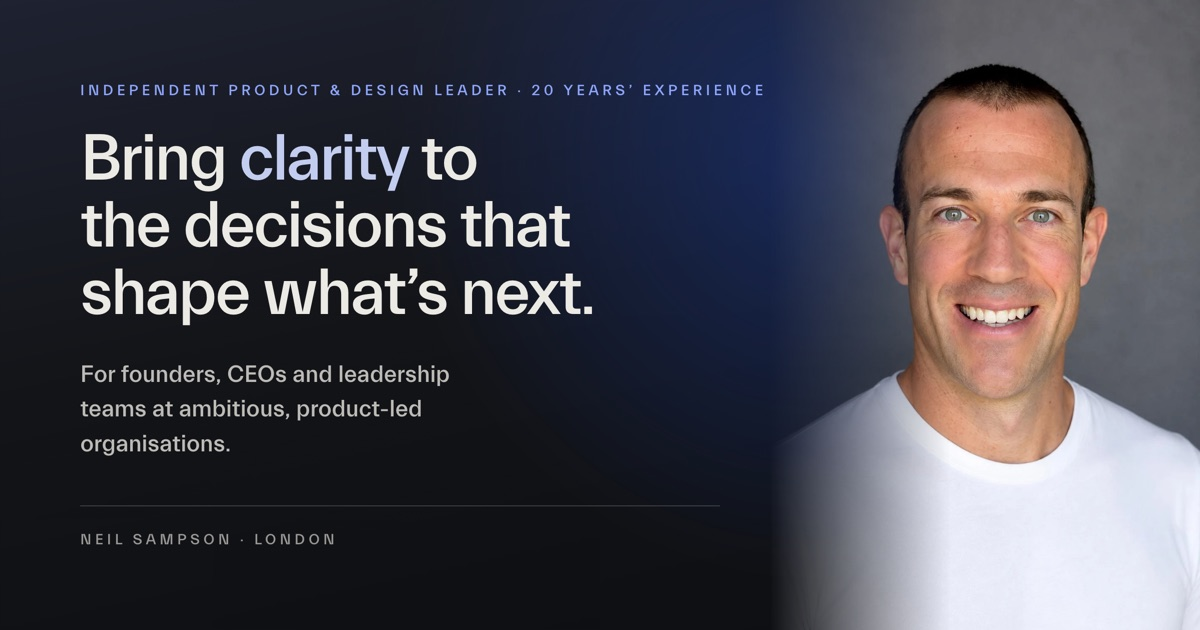
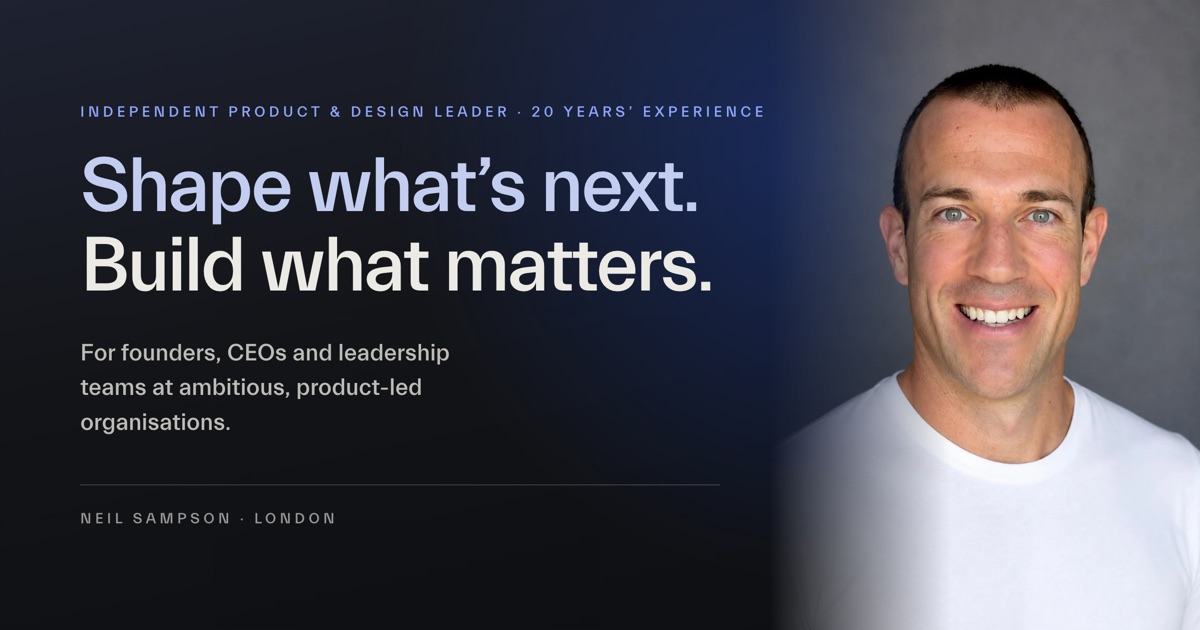
Bring the share card and previews in line with the new headline
The share card, meta descriptions, JSON-LD and image alt text still said
"Bring clarity to the decisions that shape what's next." They now carry
"Shape what's next. Build what matters."

The card is redrawn with the two-line headline at 78px and published as
share-card-shape.jpg, since previews cache by URL; the three older filenames
serve the same new picture.

diff --git a/index.html b/index.html
@@ -13,30 +13,30 @@
 </script>
 <meta name="viewport" content="width=device-width, initial-scale=1">
 <title>Independent product &amp; design leader | Neil Sampson</title>
-<meta name="description" content="Independent product &amp; design leader with 20 years&#8217; experience, helping founders, CEOs and leadership teams bring clarity to the decisions that shape what&#8217;s next.">
+<meta name="description" content="Independent product &amp; design leader with 20 years&#8217; experience, helping founders, CEOs and leadership teams shape what&#8217;s next and build what matters.">
 <link rel="canonical" href="https://neil-sampson.com/">
 
 <meta property="og:type" content="website">
 <meta property="og:site_name" content="Neil Sampson">
 <meta property="og:locale" content="en_GB">
 <meta property="og:title" content="Independent product &amp; design leader | Neil Sampson">
-<meta property="og:description" content="Bring clarity to the decisions that shape what&#8217;s next. Independent product and design leadership for founders, CEOs and leadership teams.">
+<meta property="og:description" content="Shape what&#8217;s next. Build what matters. Independent product and design leadership for founders, CEOs and leadership teams.">
 <meta property="og:url" content="https://neil-sampson.com/">
 <meta name="twitter:card" content="summary_large_image">
 <meta name="twitter:title" content="Independent product &amp; design leader | Neil Sampson">
-<meta name="twitter:description" content="Bring clarity to the decisions that shape what&#8217;s next. Independent product and design leadership for founders, CEOs and leadership teams.">
-<meta property="og:image" content="https://neil-sampson.com/assets/share-card-clarity.jpg">
+<meta name="twitter:description" content="Shape what&#8217;s next. Build what matters. Independent product and design leadership for founders, CEOs and leadership teams.">
+<meta property="og:image" content="https://neil-sampson.com/assets/share-card-shape.jpg">
 <meta property="og:image:width" content="1200">
 <meta property="og:image:height" content="630">
-<meta property="og:image:alt" content="Neil Sampson, independent product and design leader: bring clarity to the decisions that shape what&#8217;s next">
-<meta name="twitter:image" content="https://neil-sampson.com/assets/share-card-clarity.jpg">
+<meta property="og:image:alt" content="Neil Sampson, independent product and design leader: shape what&#8217;s next, build what matters">
+<meta name="twitter:image" content="https://neil-sampson.com/assets/share-card-shape.jpg">
 
 <script type="application/ld+json">
 {
   "@context": "https://schema.org",
   "@type": "ProfessionalService",
   "name": "Neil Sampson",
-  "description": "Bring clarity to the decisions that shape what’s next. Independent product and design leadership for founders, CEOs and leadership teams.",
+  "description": "Shape what’s next. Build what matters. Independent product and design leadership for founders, CEOs and leadership teams.",
   "url": "https://neil-sampson.com/",
   "areaServed": "GB",
   "provider": {

diff --git a/tools/share-card.html b/tools/share-card.html
@@ -2,24 +2,24 @@
 <meta charset="utf-8">
 <title>Share card</title>
 <!--
-  Source for assets/share-card-clarity.jpg, the Open Graph image.
+  Source for assets/share-card-shape.jpg, the Open Graph image.
 
   It mirrors the homepage hero: the same 168deg ground gradient, the same blue
-  glow, Everett from /fonts, and the headline with "clarity" in --blue-pale.
-  Edit here, never the JPEG, and regenerate from the repo root:
+  glow, Everett from /fonts, and the headline with its first sentence in
+  --blue-pale. Edit here, never the JPEG, and regenerate from the repo root:
 
     "/Applications/Google Chrome.app/Contents/MacOS/Google Chrome" \
       --headless --disable-gpu --hide-scrollbars --force-device-scale-factor=2 \
       --window-size=1200,630 --screenshot=/tmp/card-2x.png \
       "file://$PWD/tools/share-card.html"
     sips -z 630 1200 /tmp/card-2x.png --setProperty format jpeg \
-      --setProperty formatOptions 82 --out assets/share-card-clarity.jpg
+      --setProperty formatOptions 82 --out assets/share-card-shape.jpg
 
   Rendering at 2x and halving keeps the type crisp. Copy the result over
-  assets/share-card.jpg and assets/share-card-2026.jpg too: previews cache by
-  URL, so the old names have to keep serving the current picture. When the
-  design changes materially, give it a new filename and repoint
-  og:image/twitter:image, or caches will hold the old one.
+  assets/share-card.jpg, share-card-2026.jpg and share-card-clarity.jpg too:
+  previews cache by URL, so the old names have to keep serving the current
+  picture. When the design changes materially, give it a new filename and
+  repoint og:image/twitter:image, or caches will hold the old one.
 -->
 <style>
   @font-face {
@@ -110,7 +110,7 @@
   }
 
   h1 {
-    font-size: 66px;
+    font-size: 78px;
     font-weight: 500;
     line-height: 1.02;
     letter-spacing: -.03em;
@@ -154,7 +154,7 @@
 
 <div class="inner">
   <span class="eyebrow">Independent product &amp; design leader &#183; 20 years&#8217; experience</span>
-  <h1>Bring <em>clarity</em> to<br>the decisions that<br>shape what&#8217;s next.</h1>
+  <h1><em>Shape what&#8217;s next.</em><br>Build what matters.</h1>
   <p class="lead">For founders, CEOs and leadership teams at ambitious, product-led organisations.</p>
   <div class="rule"></div>
   <div class="colophon">Neil Sampson &#183; London</div>

diff --git a/case-fca.html b/case-fca.html
@@ -25,11 +25,11 @@
 <meta name="twitter:card" content="summary_large_image">
 <meta name="twitter:title" content="FCA &#8212; building an in-house design practice">
 <meta name="twitter:description" content="An in-house design practice and product operating model at the UK financial regulator.">
-<meta property="og:image" content="https://neil-sampson.com/assets/share-card-clarity.jpg">
+<meta property="og:image" content="https://neil-sampson.com/assets/share-card-shape.jpg">
 <meta property="og:image:width" content="1200">
 <meta property="og:image:height" content="630">
-<meta property="og:image:alt" content="Neil Sampson, independent product and design leader: bring clarity to the decisions that shape what&#8217;s next">
-<meta name="twitter:image" content="https://neil-sampson.com/assets/share-card-clarity.jpg">
+<meta property="og:image:alt" content="Neil Sampson, independent product and design leader: shape what&#8217;s next, build what matters">
+<meta name="twitter:image" content="https://neil-sampson.com/assets/share-card-shape.jpg">
 
 <link rel="icon" type="image/png" sizes="32x32" href="assets/favicon-32.png">
 <link rel="icon" type="image/png" sizes="16x16" href="assets/favicon-16.png">

diff --git a/services.html b/services.html
@@ -25,11 +25,11 @@
 <meta name="twitter:card" content="summary_large_image">
 <meta name="twitter:title" content="Fractional design &amp; product services | Neil Sampson">
 <meta name="twitter:description" content="Product strategy, design leadership, service design and capability building.">
-<meta property="og:image" content="https://neil-sampson.com/assets/share-card-clarity.jpg">
+<meta property="og:image" content="https://neil-sampson.com/assets/share-card-shape.jpg">
 <meta property="og:image:width" content="1200">
 <meta property="og:image:height" content="630">
-<meta property="og:image:alt" content="Neil Sampson, independent product and design leader: bring clarity to the decisions that shape what&#8217;s next">
-<meta name="twitter:image" content="https://neil-sampson.com/assets/share-card-clarity.jpg">
+<meta property="og:image:alt" content="Neil Sampson, independent product and design leader: shape what&#8217;s next, build what matters">
+<meta name="twitter:image" content="https://neil-sampson.com/assets/share-card-shape.jpg">
 
 <link rel="icon" type="image/png" sizes="32x32" href="assets/favicon-32.png">
 <link rel="icon" type="image/png" sizes="16x16" href="assets/favicon-16.png">

diff --git a/case-lindblad.html b/case-lindblad.html
@@ -25,11 +25,11 @@
 <meta name="twitter:card" content="summary_large_image">
 <meta name="twitter:title" content="Lindblad &#8212; a $10k+ product made self-serve">
 <meta name="twitter:description" content="A $10k+ expedition cruise booking turned into a self-serve digital experience.">
-<meta property="og:image" content="https://neil-sampson.com/assets/share-card-clarity.jpg">
+<meta property="og:image" content="https://neil-sampson.com/assets/share-card-shape.jpg">
 <meta property="og:image:width" content="1200">
 <meta property="og:image:height" content="630">
-<meta property="og:image:alt" content="Neil Sampson, independent product and design leader: bring clarity to the decisions that shape what&#8217;s next">
-<meta name="twitter:image" content="https://neil-sampson.com/assets/share-card-clarity.jpg">
+<meta property="og:image:alt" content="Neil Sampson, independent product and design leader: shape what&#8217;s next, build what matters">
+<meta name="twitter:image" content="https://neil-sampson.com/assets/share-card-shape.jpg">
 
 <link rel="icon" type="image/png" sizes="32x32" href="assets/favicon-32.png">
 <link rel="icon" type="image/png" sizes="16x16" href="assets/favicon-16.png">

diff --git a/case-bpp.html b/case-bpp.html
@@ -25,11 +25,11 @@
 <meta name="twitter:card" content="summary_large_image">
 <meta name="twitter:title" content="BPP &#8212; onboarding lead time cut from 6 weeks to 3">
 <meta name="twitter:description" content="Apprentice onboarding lead time cut from six weeks to three.">
-<meta property="og:image" content="https://neil-sampson.com/assets/share-card-clarity.jpg">
+<meta property="og:image" content="https://neil-sampson.com/assets/share-card-shape.jpg">
 <meta property="og:image:width" content="1200">
 <meta property="og:image:height" content="630">
-<meta property="og:image:alt" content="Neil Sampson, independent product and design leader: bring clarity to the decisions that shape what&#8217;s next">
-<meta name="twitter:image" content="https://neil-sampson.com/assets/share-card-clarity.jpg">
+<meta property="og:image:alt" content="Neil Sampson, independent product and design leader: shape what&#8217;s next, build what matters">
+<meta name="twitter:image" content="https://neil-sampson.com/assets/share-card-shape.jpg">
 
 <link rel="icon" type="image/png" sizes="32x32" href="assets/favicon-32.png">
 <link rel="icon" type="image/png" sizes="16x16" href="assets/favicon-16.png">

diff --git a/case-polesdon.html b/case-polesdon.html
@@ -25,11 +25,11 @@
 <meta name="twitter:card" content="summary_large_image">
 <meta name="twitter:title" content="Polesdon &#8212; launching a padel brand from scratch">
 <meta name="twitter:description" content="A padel racket brand built and launched from scratch.">
-<meta property="og:image" content="https://neil-sampson.com/assets/share-card-clarity.jpg">
+<meta property="og:image" content="https://neil-sampson.com/assets/share-card-shape.jpg">
 <meta property="og:image:width" content="1200">
 <meta property="og:image:height" content="630">
-<meta property="og:image:alt" content="Neil Sampson, independent product and design leader: bring clarity to the decisions that shape what&#8217;s next">
-<meta name="twitter:image" content="https://neil-sampson.com/assets/share-card-clarity.jpg">
+<meta property="og:image:alt" content="Neil Sampson, independent product and design leader: shape what&#8217;s next, build what matters">
+<meta name="twitter:image" content="https://neil-sampson.com/assets/share-card-shape.jpg">
 
 <link rel="icon" type="image/png" sizes="32x32" href="assets/favicon-32.png">
 <link rel="icon" type="image/png" sizes="16x16" href="assets/favicon-16.png">
